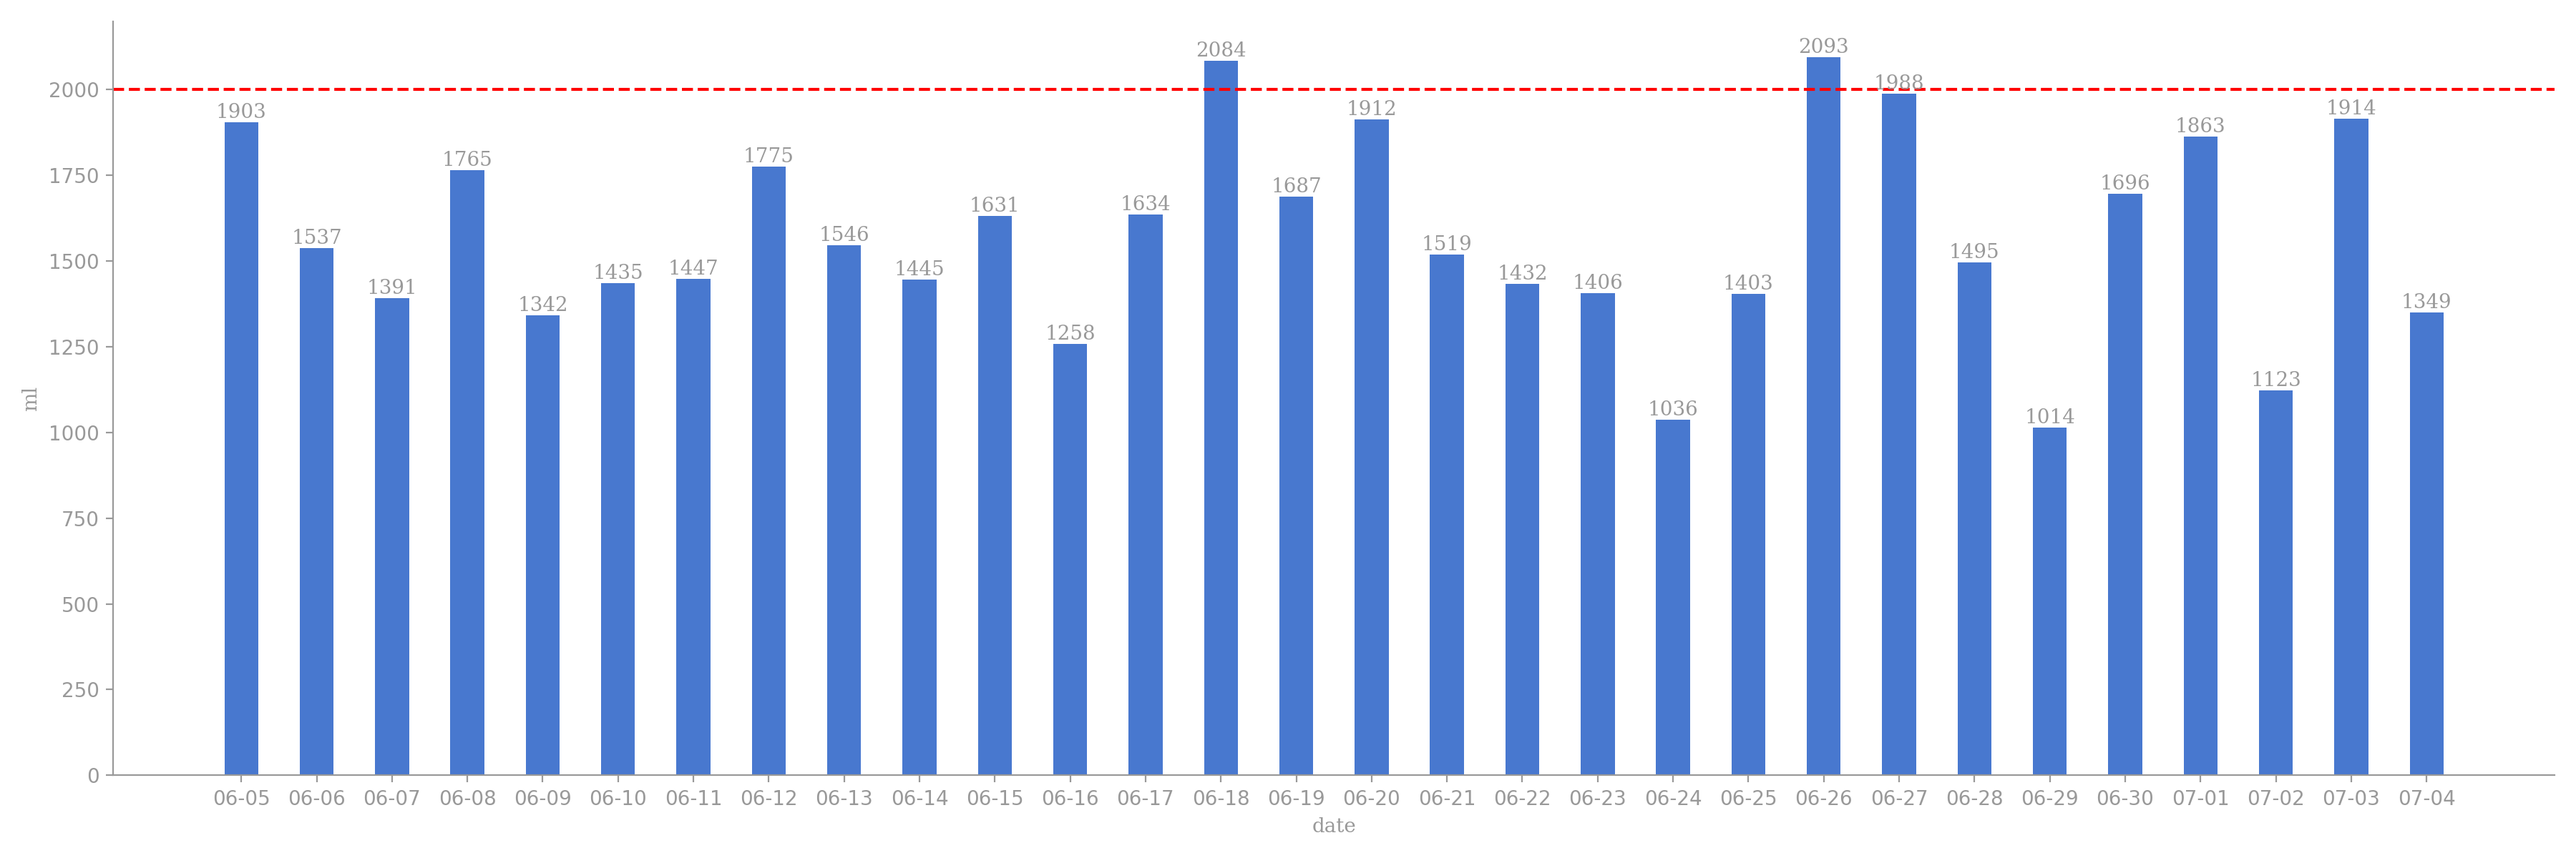
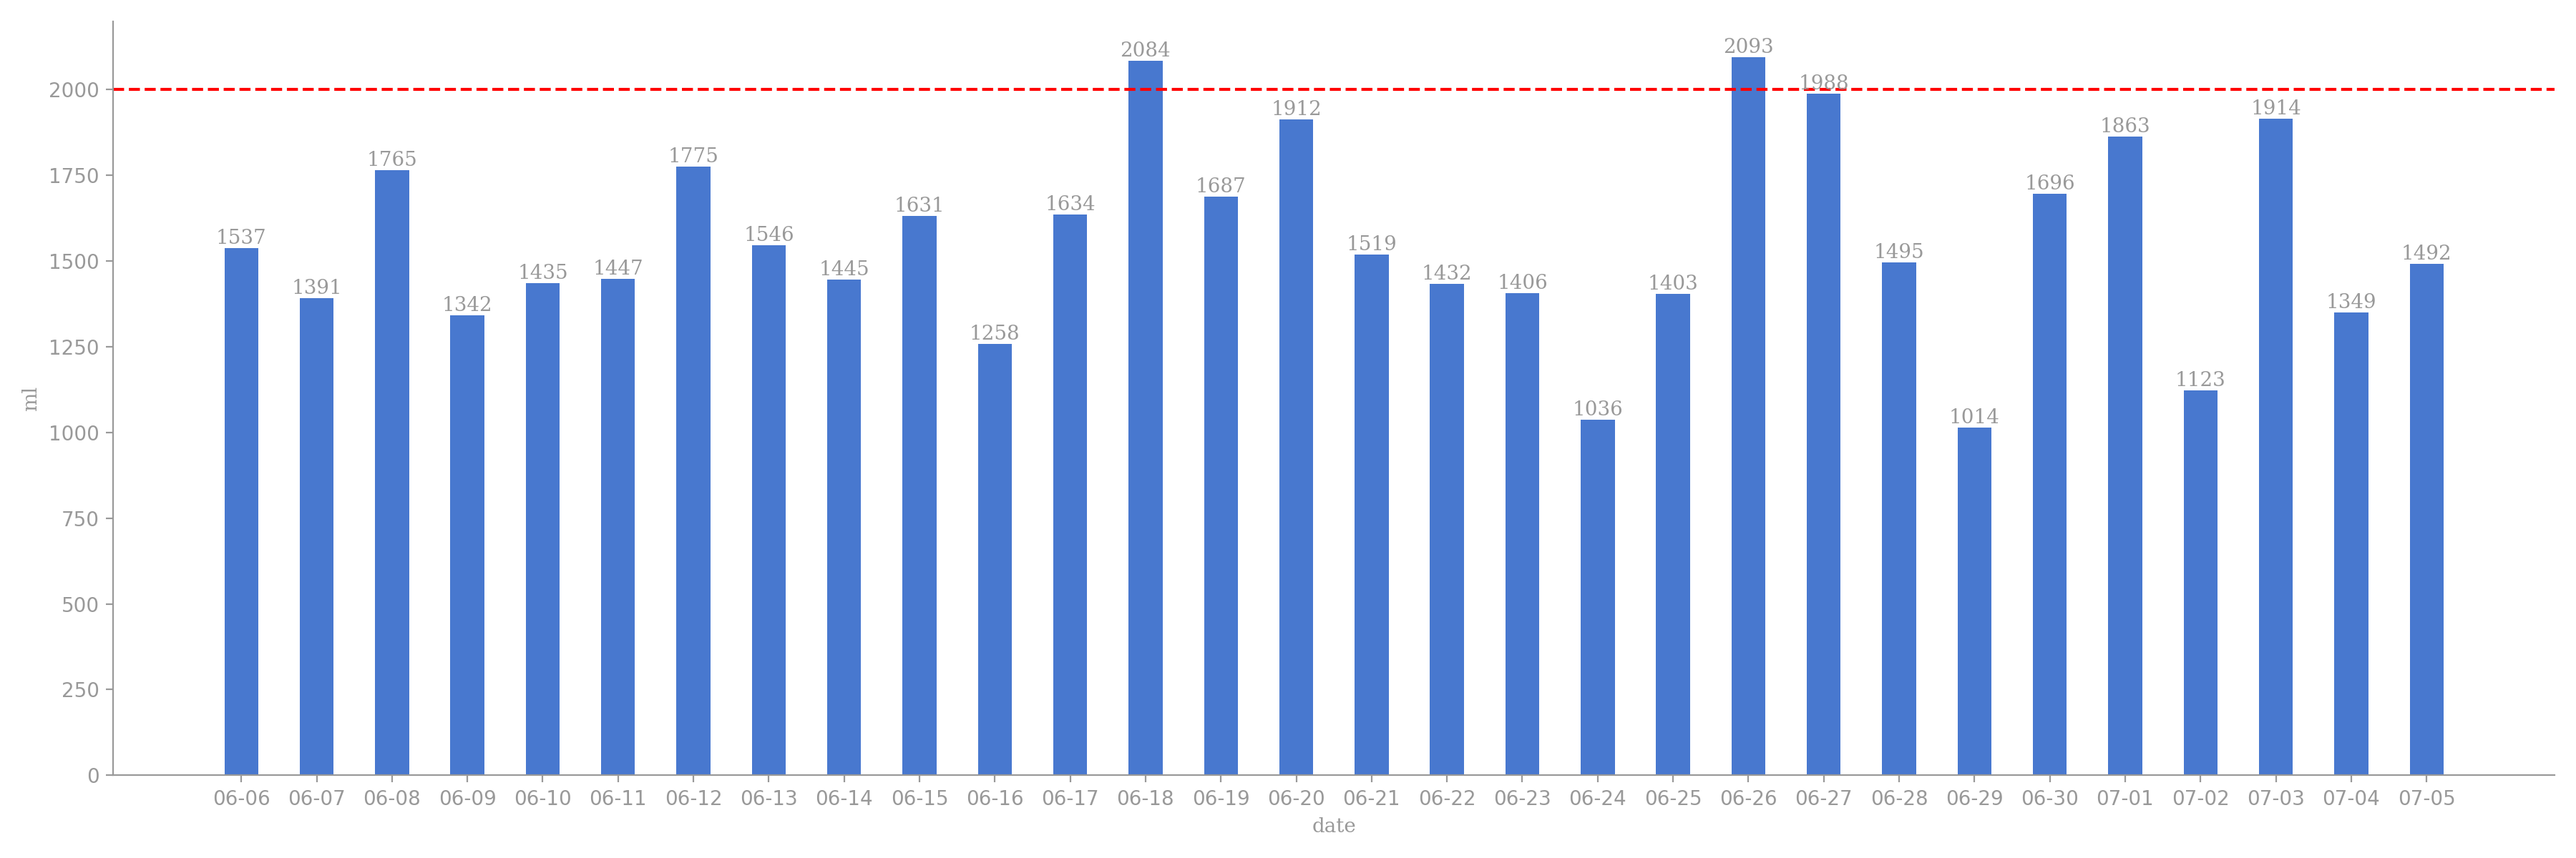
crontab auto git

Changed region(s): [[0.0622, 0.0308, 0.9644, 0.4933]]

diff --git a/README.md b/README.md
@@ -1,17 +1,3 @@
-# 今日饮水数据
-
-<div align=center>
-<img src="today.png" style="zoom: 100%;" />
-
-| 今日总饮水量 | 每小时平均饮水量 |
-| :----: | :----: |
-| 1411 | 156 |
-</div>
-
-| 日期 | 02:45:54 | 03:26:35 | 03:54:24 | 05:55:30 | 06:54:10 | 07:46:53 | 09:31:28 | 19:17:50 | 20:23:22 | 22:11:29 |
-| :----: | :----: | :----: | :----: | :----: | :----: | :----: | :----: | :----: | :----: | :----: |
-| 2025-07-05 | 186 | 76 | 44 | 250 | 60 | 182 | 112 | 300 | 127 | 74 |
-
 # 近30日饮水数据
 
 <div align=center>
@@ -19,8 +5,12 @@
 
 | 总饮水量 | 日均饮水量 |
 | :----: | :----: |
-| 47123 | 1570 |
+| 46712 | 1557 |
 </div>
+
+| 日期 | all | 02:45:54 | 03:26:35 | 03:54:24 | 05:55:30 | 06:54:10 | 07:46:53 | 09:31:28 | 19:17:50 | 20:23:22 | 22:11:29 | 23:56:48 |
+| :----: | :----: | :----: | :----: | :----: | :----: | :----: | :----: | :----: | :----: | :----: | :----: | :----: |
+| 2025-07-05 | 1492 | 186 | 76 | 44 | 250 | 60 | 182 | 112 | 300 | 127 | 74 | 81 |
 
 | 日期 | all | 00:10:24 | 01:35:13 | 03:28:36 | 05:55:54 | 07:24:14 | 08:19:56 | 09:23:40 | 16:34:04 | 17:03:27 | 19:02:00 | 20:10:35 | 20:43:59 | 22:42:35 | 23:49:04 |
 | :----: | :----: | :----: | :----: | :----: | :----: | :----: | :----: | :----: | :----: | :----: | :----: | :----: | :----: | :----: | :----: |
@@ -141,8 +131,4 @@
 | 日期 | all | 02:30:11 | 04:01:59 | 04:53:52 | 05:58:33 | 06:38:56 | 07:18:18 | 08:45:41 | 11:35:39 | 17:53:22 | 18:31:56 | 18:58:04 | 20:33:19 | 21:32:39 | 22:26:42 | 22:52:59 |
 | :----: | :----: | :----: | :----: | :----: | :----: | :----: | :----: | :----: | :----: | :----: | :----: | :----: | :----: | :----: | :----: | :----: |
 | 2025-06-05 | 1903 | 74 | 66 | 102 | 250 | 117 | 126 | 32 | 46 | 300 | 78 | 52 | 102 | 94 | 44 | 420 |
-
-| 日期 | all | 00:08:58 | 01:24:14 | 04:54:21 | 05:56:15 | 06:25:48 | 07:10:43 | 16:41:10 | 19:11:44 | 20:33:43 | 21:08:46 | 22:53:33 |
-| :----: | :----: | :----: | :----: | :----: | :----: | :----: | :----: | :----: | :----: | :----: | :----: | :----: |
-| 2025-06-04 | 1122 | 89 | 86 | 94 | 250 | 74 | 104 | 200 | 54 | 62 | 62 | 47 |
 
